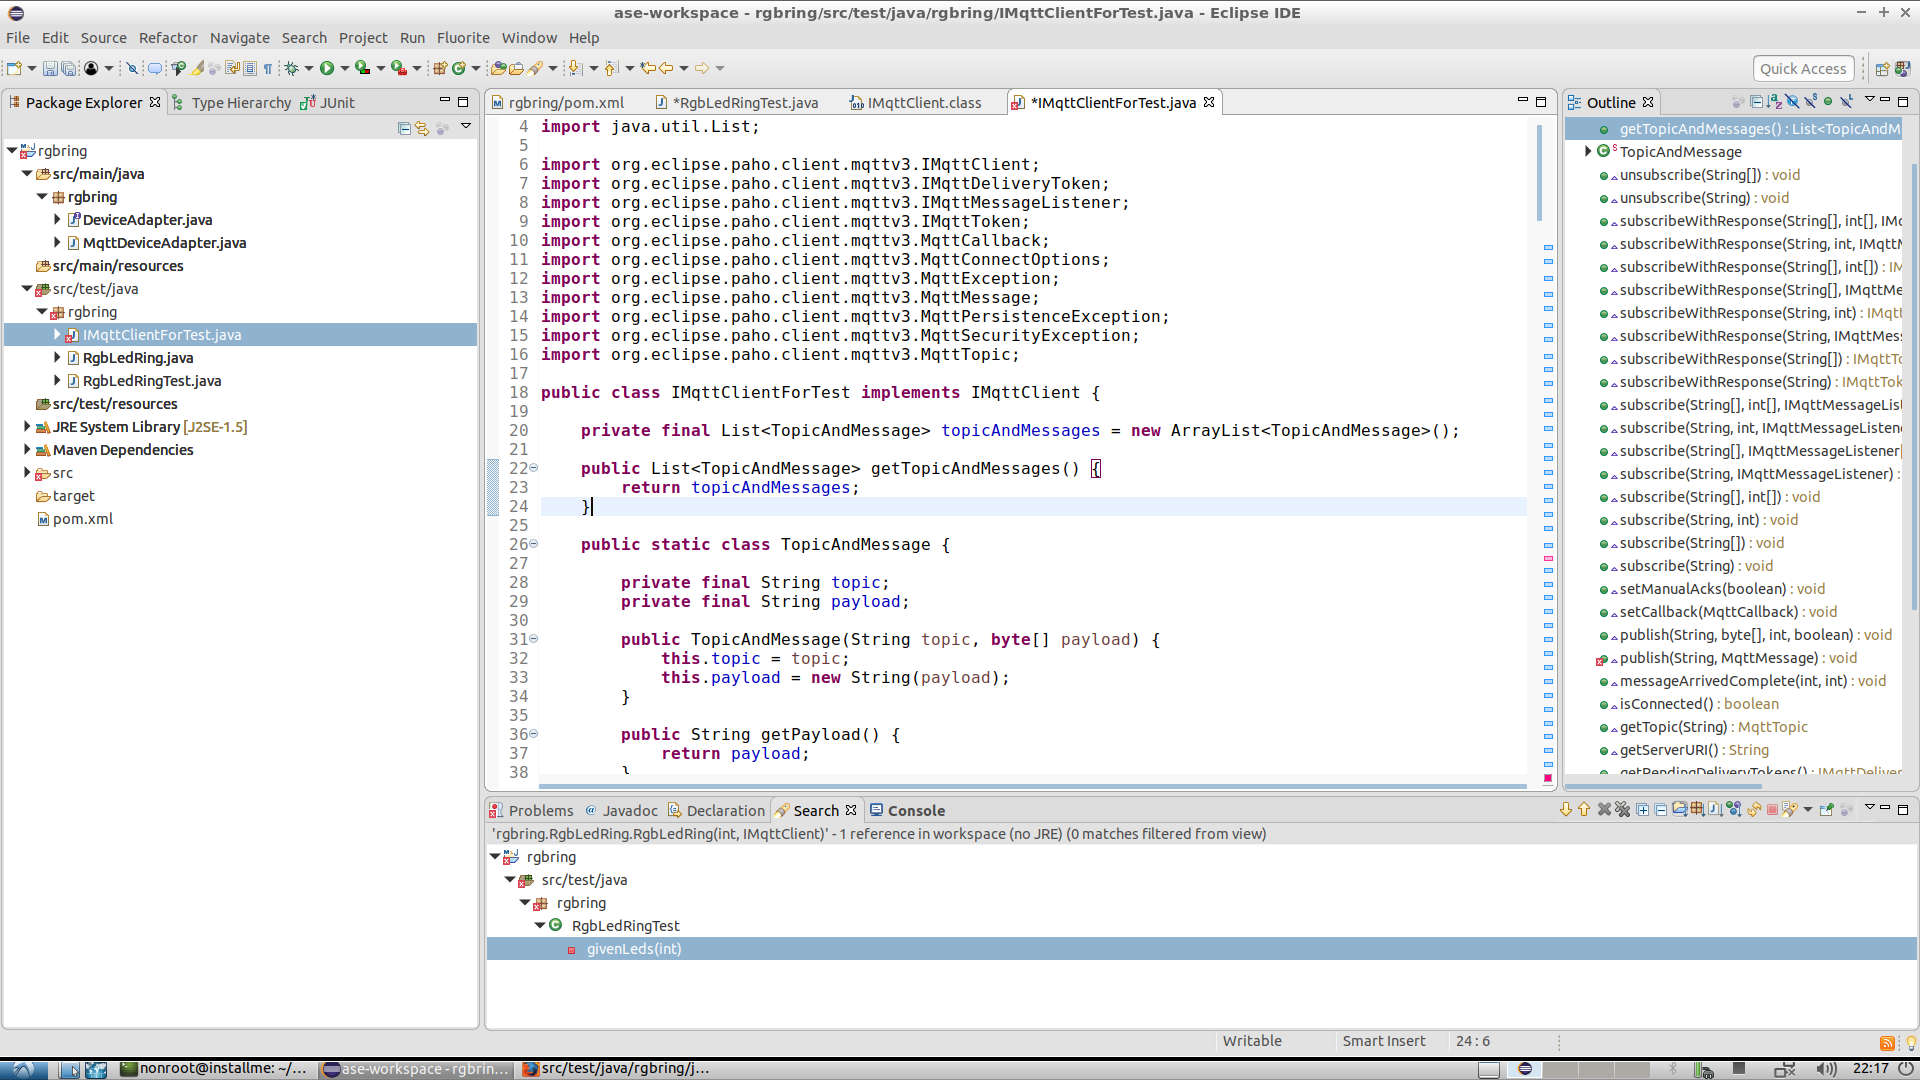
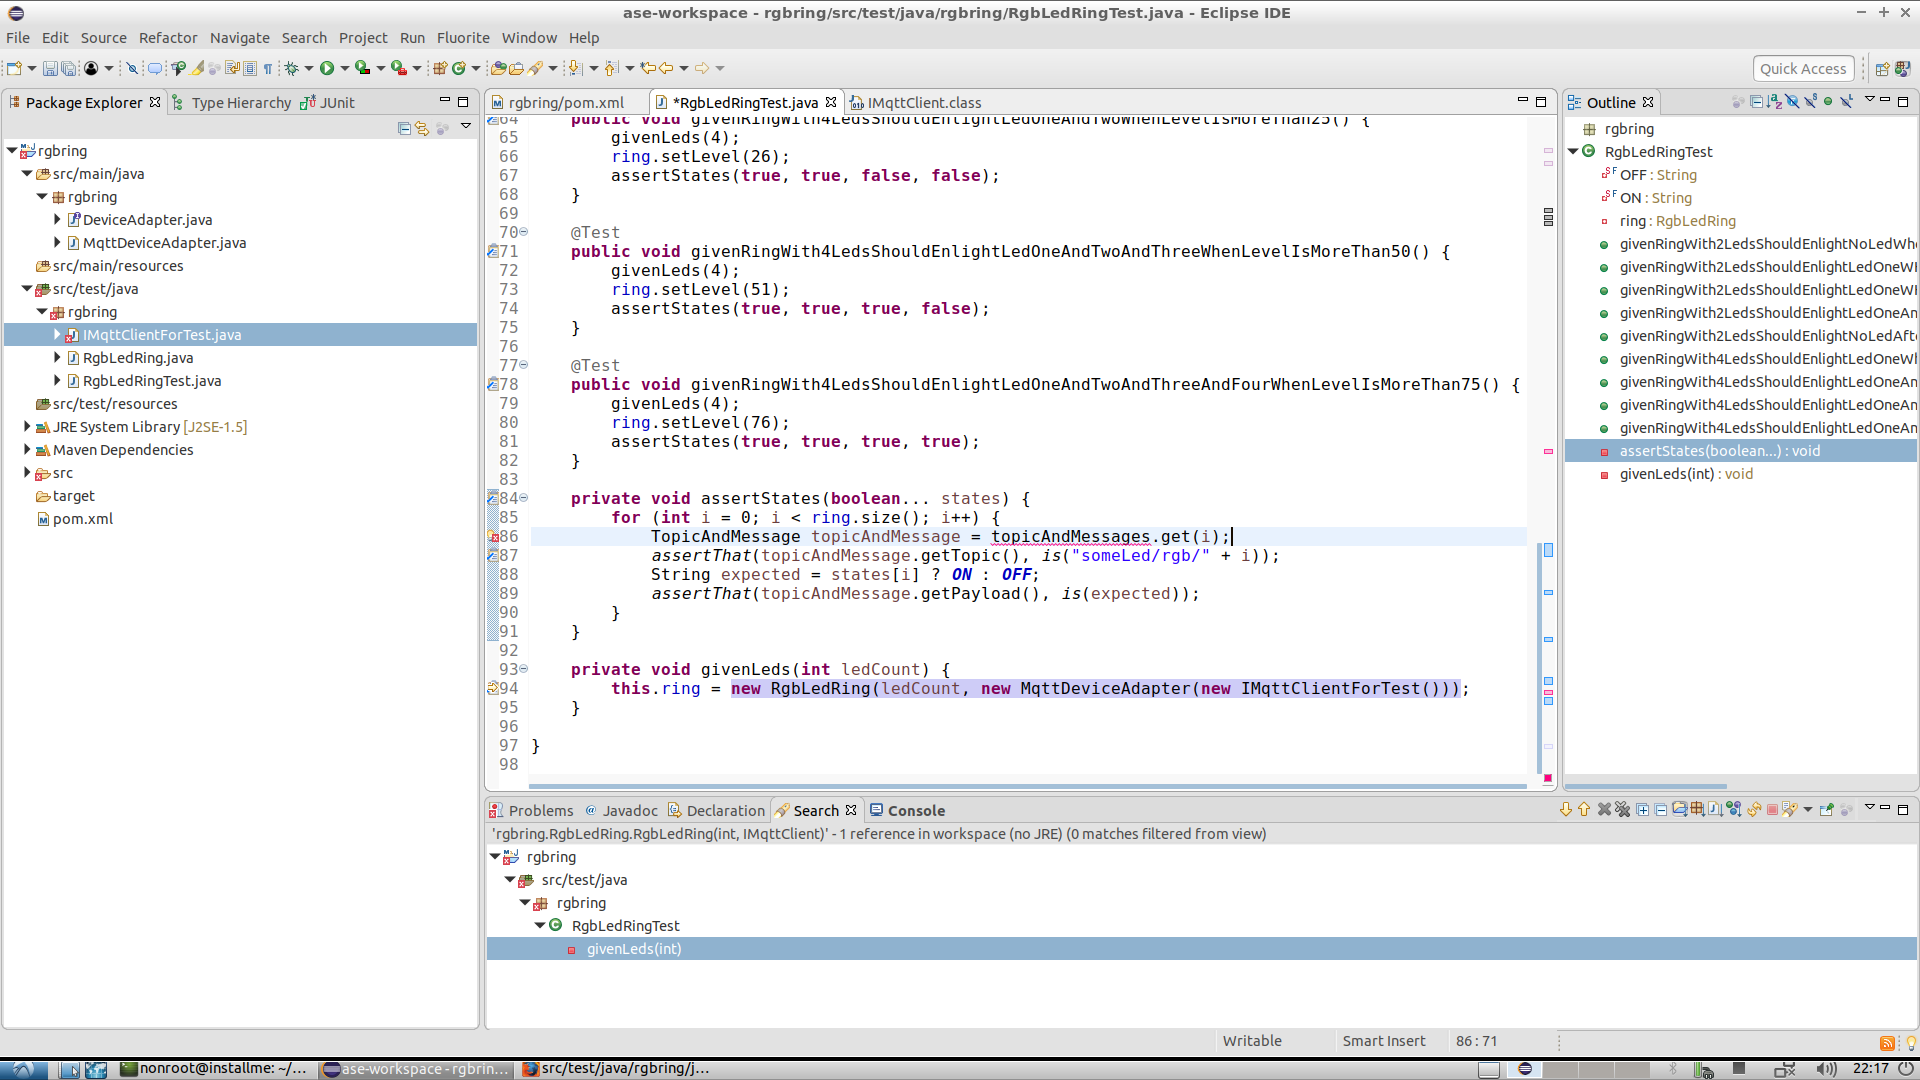
autocommit on change

diff --git a/src/test/java/rgbring/RgbLedRingTest.java b/src/test/java/rgbring/RgbLedRingTest.java
@@ -3,242 +3,17 @@ package rgbring;
 import static org.hamcrest.CoreMatchers.is;
 import static org.junit.Assert.assertThat;
 
-import java.util.ArrayList;
-import java.util.List;
-
-import org.eclipse.paho.client.mqttv3.IMqttClient;
-import org.eclipse.paho.client.mqttv3.IMqttDeliveryToken;
-import org.eclipse.paho.client.mqttv3.IMqttMessageListener;
-import org.eclipse.paho.client.mqttv3.IMqttToken;
-import org.eclipse.paho.client.mqttv3.MqttCallback;
-import org.eclipse.paho.client.mqttv3.MqttConnectOptions;
-import org.eclipse.paho.client.mqttv3.MqttException;
-import org.eclipse.paho.client.mqttv3.MqttMessage;
-import org.eclipse.paho.client.mqttv3.MqttPersistenceException;
-import org.eclipse.paho.client.mqttv3.MqttSecurityException;
-import org.eclipse.paho.client.mqttv3.MqttTopic;
 import org.junit.Test;
+
+import rgbring.IMqttClientForTest.TopicAndMessage;
 
 public class RgbLedRingTest {
 
 	private static final String OFF = "#000000";
 	private static final String ON = "#ffffff";
 
-	private static class TopicAndMessage {
-
-		private final String topic;
-		private final String payload;
-
-		public TopicAndMessage(String topic, byte[] payload) {
-			this.topic = topic;
-			this.payload = new String(payload);
-		}
-
-		public String getPayload() {
-			return payload;
-		}
-
-		public String getTopic() {
-			return topic;
-		}
-
-	}
-
-	private final class IMqttClientForTest implements IMqttClient {
-		public void unsubscribe(String[] topicFilters) throws MqttException {
-			// TODO Auto-generated method stub
-
-		}
-
-		public void unsubscribe(String topicFilter) throws MqttException {
-			// TODO Auto-generated method stub
-
-		}
-
-		public IMqttToken subscribeWithResponse(String[] topicFilters, int[] qos,
-				IMqttMessageListener[] messageListeners) throws MqttException {
-			// TODO Auto-generated method stub
-			return null;
-		}
-
-		public IMqttToken subscribeWithResponse(String topicFilter, int qos, IMqttMessageListener messageListener)
-				throws MqttException {
-			// TODO Auto-generated method stub
-			return null;
-		}
-
-		public IMqttToken subscribeWithResponse(String[] topicFilters, int[] qos) throws MqttException {
-			// TODO Auto-generated method stub
-			return null;
-		}
-
-		public IMqttToken subscribeWithResponse(String[] topicFilters, IMqttMessageListener[] messageListeners)
-				throws MqttException {
-			// TODO Auto-generated method stub
-			return null;
-		}
-
-		public IMqttToken subscribeWithResponse(String topicFilter, int qos) throws MqttException {
-			// TODO Auto-generated method stub
-			return null;
-		}
-
-		public IMqttToken subscribeWithResponse(String topicFilter, IMqttMessageListener messageListener)
-				throws MqttException {
-			// TODO Auto-generated method stub
-			return null;
-		}
-
-		public IMqttToken subscribeWithResponse(String[] topicFilters) throws MqttException {
-			// TODO Auto-generated method stub
-			return null;
-		}
-
-		public IMqttToken subscribeWithResponse(String topicFilter) throws MqttException {
-			// TODO Auto-generated method stub
-			return null;
-		}
-
-		public void subscribe(String[] topicFilters, int[] qos, IMqttMessageListener[] messageListeners)
-				throws MqttException {
-			// TODO Auto-generated method stub
-
-		}
-
-		public void subscribe(String topicFilter, int qos, IMqttMessageListener messageListener) throws MqttException {
-			// TODO Auto-generated method stub
-
-		}
-
-		public void subscribe(String[] topicFilters, IMqttMessageListener[] messageListeners) throws MqttException {
-			// TODO Auto-generated method stub
-
-		}
-
-		public void subscribe(String topicFilter, IMqttMessageListener messageListener)
-				throws MqttException, MqttSecurityException {
-			// TODO Auto-generated method stub
-
-		}
-
-		public void subscribe(String[] topicFilters, int[] qos) throws MqttException {
-			// TODO Auto-generated method stub
-
-		}
-
-		public void subscribe(String topicFilter, int qos) throws MqttException {
-			// TODO Auto-generated method stub
-
-		}
-
-		public void subscribe(String[] topicFilters) throws MqttException {
-			// TODO Auto-generated method stub
-
-		}
-
-		public void subscribe(String topicFilter) throws MqttException, MqttSecurityException {
-			// TODO Auto-generated method stub
-
-		}
-
-		public void setManualAcks(boolean manualAcks) {
-			// TODO Auto-generated method stub
-
-		}
-
-		public void setCallback(MqttCallback callback) {
-			// TODO Auto-generated method stub
-
-		}
-
-		public void publish(String topic, byte[] payload, int qos, boolean retained)
-				throws MqttException, MqttPersistenceException {
-			// TODO Auto-generated method stub
-
-		}
-
-		public void publish(String topic, MqttMessage message) throws MqttException, MqttPersistenceException {
-			topicAndMessages.add(new TopicAndMessage(topic, message.getPayload()));
-		}
-
-		public void messageArrivedComplete(int messageId, int qos) throws MqttException {
-			// TODO Auto-generated method stub
-
-		}
-
-		public boolean isConnected() {
-			// TODO Auto-generated method stub
-			return false;
-		}
-
-		public MqttTopic getTopic(String topic) {
-			// TODO Auto-generated method stub
-			return null;
-		}
-
-		public String getServerURI() {
-			// TODO Auto-generated method stub
-			return null;
-		}
-
-		public IMqttDeliveryToken[] getPendingDeliveryTokens() {
-			// TODO Auto-generated method stub
-			return null;
-		}
-
-		public String getClientId() {
-			// TODO Auto-generated method stub
-			return null;
-		}
-
-		public void disconnectForcibly(long quiesceTimeout, long disconnectTimeout) throws MqttException {
-			// TODO Auto-generated method stub
-
-		}
-
-		public void disconnectForcibly(long disconnectTimeout) throws MqttException {
-			// TODO Auto-generated method stub
-
-		}
-
-		public void disconnectForcibly() throws MqttException {
-			// TODO Auto-generated method stub
-
-		}
-
-		public void disconnect(long quiesceTimeout) throws MqttException {
-			// TODO Auto-generated method stub
-
-		}
-
-		public void disconnect() throws MqttException {
-			// TODO Auto-generated method stub
-
-		}
-
-		public IMqttToken connectWithResult(MqttConnectOptions options) throws MqttSecurityException, MqttException {
-			// TODO Auto-generated method stub
-			return null;
-		}
-
-		public void connect(MqttConnectOptions options) throws MqttSecurityException, MqttException {
-			// TODO Auto-generated method stub
-
-		}
-
-		public void connect() throws MqttSecurityException, MqttException {
-			// TODO Auto-generated method stub
-
-		}
-
-		public void close() throws MqttException {
-			// TODO Auto-generated method stub
-
-		}
-	}
 
 	private RgbLedRing ring;
-	private final List<TopicAndMessage> topicAndMessages = new ArrayList<TopicAndMessage>();
 
 	@Test
 	public void givenRingWith2LedsShouldEnlightNoLedWhenLevelIsZero() {
